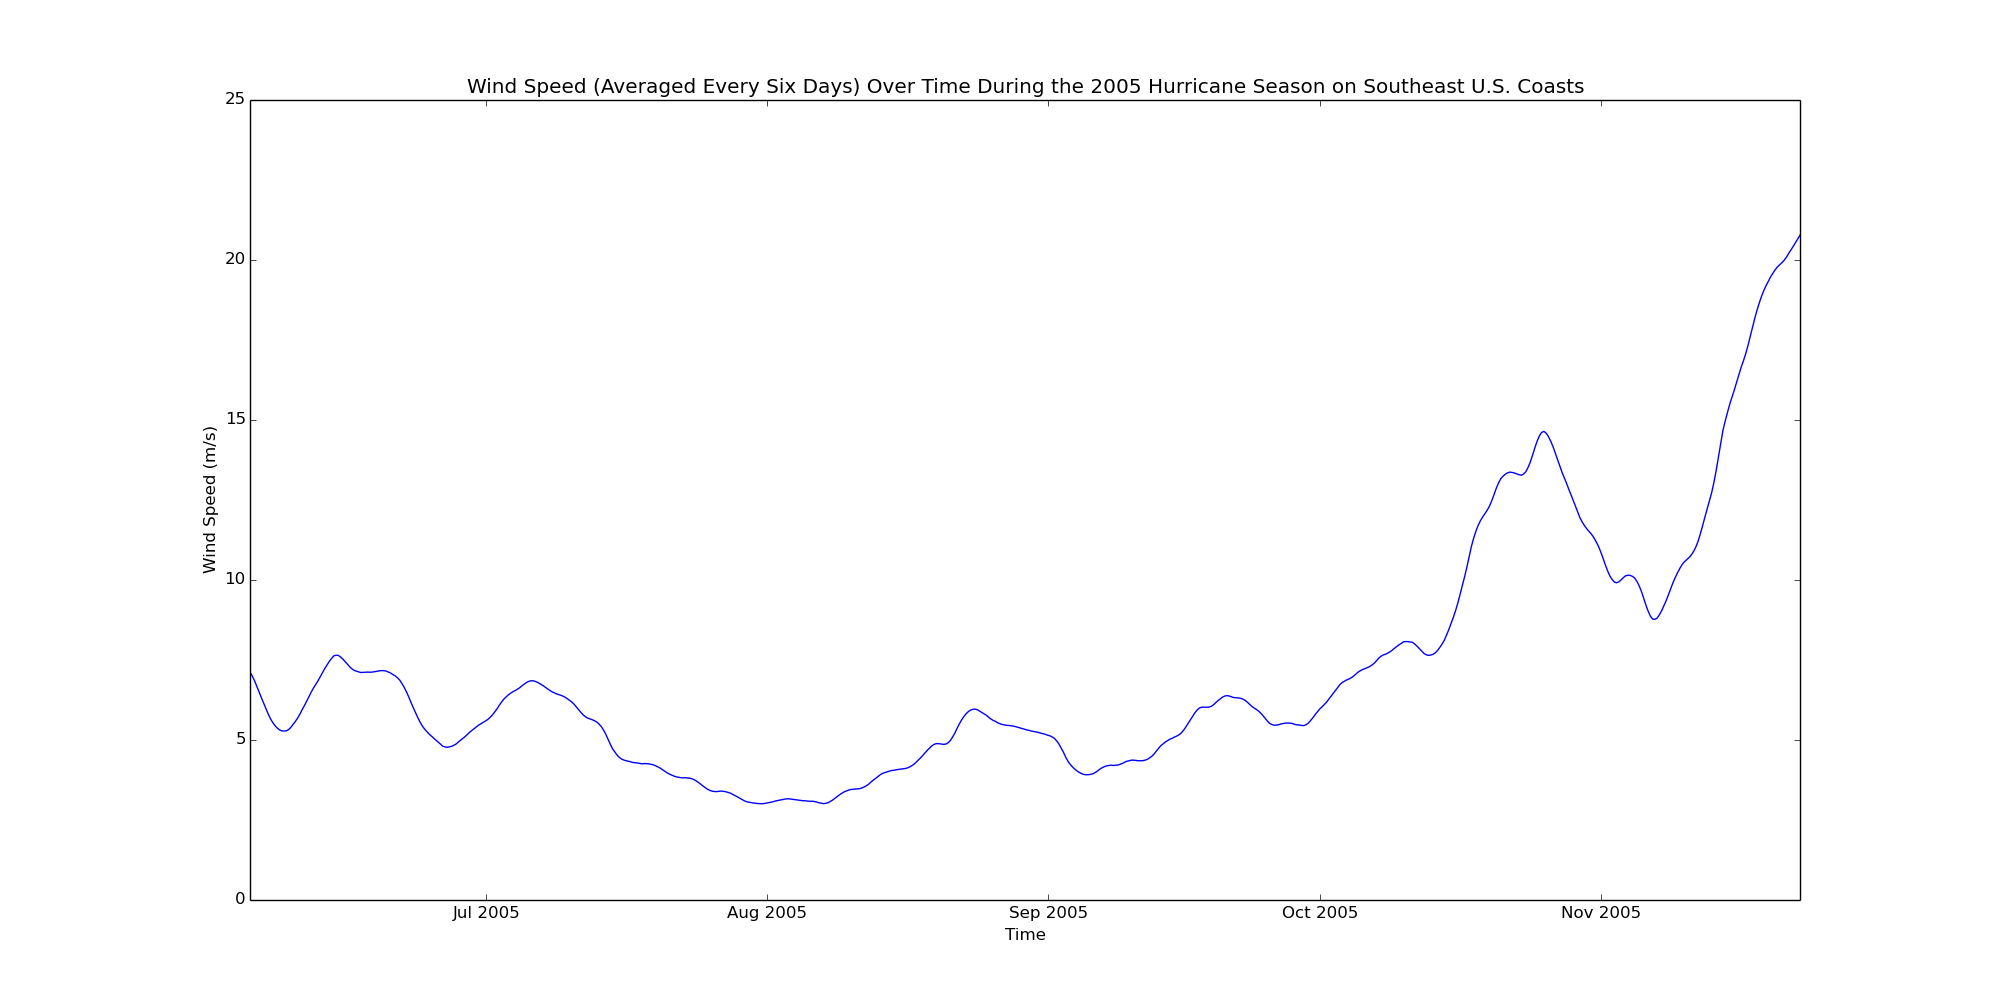
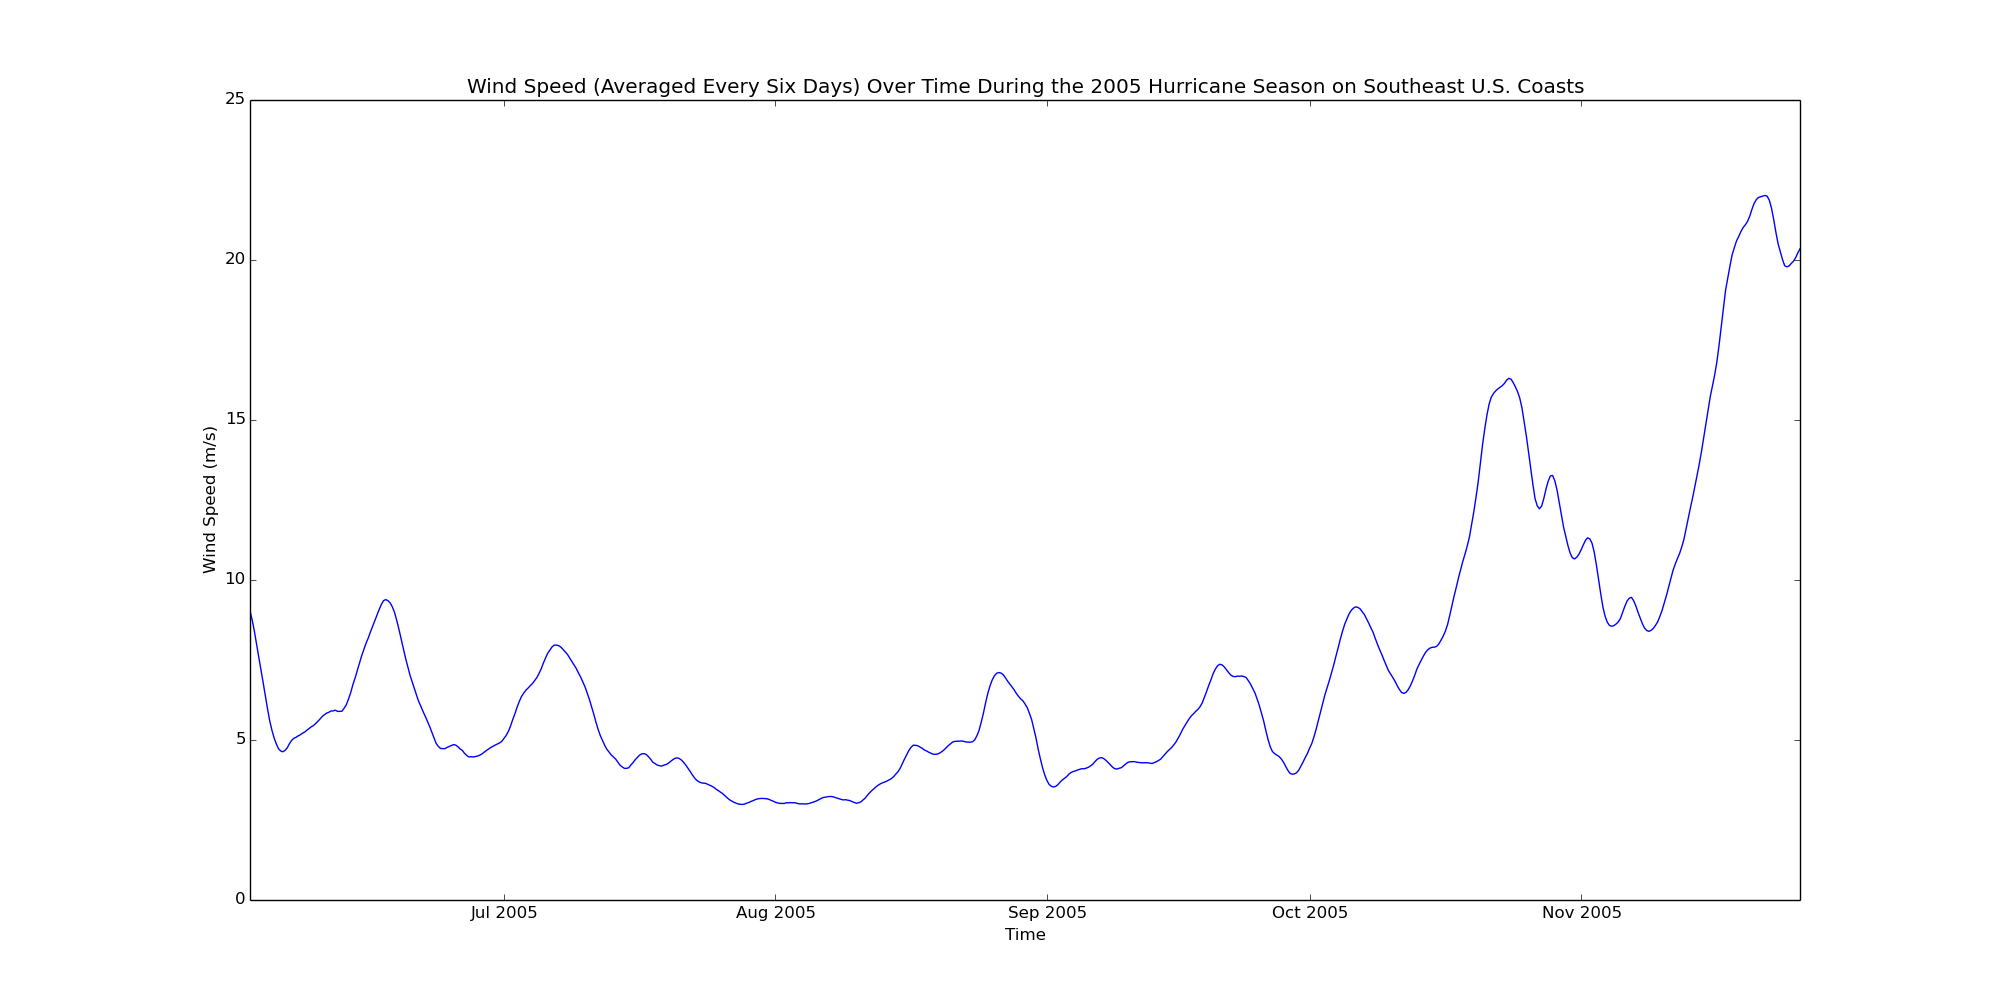
Added a few more temporary 2005 example time series figures

diff --git a/DLM_time_avg_stats.py b/DLM_time_avg_stats.py
@@ -492,7 +492,7 @@ plt.savefig('Figures/Time_Series/Yearly/' + location_names[region][0]  + '_Time_
 plt.show()
 
 # Change this value to average by a different number of days (4 for one day average, 24 for six day average, 48 for 12 day average) 
-avg_index = 4
+avg_index = 36
 
 # Average the wind speeds by day
 wind_speeds_79_16, dates_and_times_79_16 = averageWindsOverTime_v2(wind_speeds_79_16, dates_and_times_79_16, avg_index)
@@ -520,9 +520,9 @@ plt.plot(dates_and_times_79_16[(current_year_index * (732 - avg_index + 1)):((cu
 #plt.xlim(xmax = max_wind_speed + 1)
 plt.ylabel('Wind Speed (m/s)')
 plt.xlabel('Time')
-plt.title('Wind Speed (Averaged Every Day) Over Time During the ' + str(current_year) + ' Hurricane Season on ' +
+plt.title('Wind Speed (Averaged Every Nine Days) Over Time During the ' + str(current_year) + ' Hurricane Season on ' +
           location_names[region][1])
-plt.savefig('Figures/One_Day_Averages/v2/Time_Series/' + str(current_year) + '/' + location_names[region][0]  + '_1d_Avg_Time_Series_' + str(current_year) + '.png')
+plt.savefig('Figures/One_Day_Averages/v2/Time_Series/' + str(current_year) + '/' + location_names[region][0]  + '_9d_Avg_Time_Series_' + str(current_year) + '.png')
 plt.savefig('Figures/One_Day_Averages/v2/Time_Series/Yearly/' + location_names[region][0]  + '_1d_Avg_Time_Series_' + str(current_year) + '.png')
 plt.show()
 
